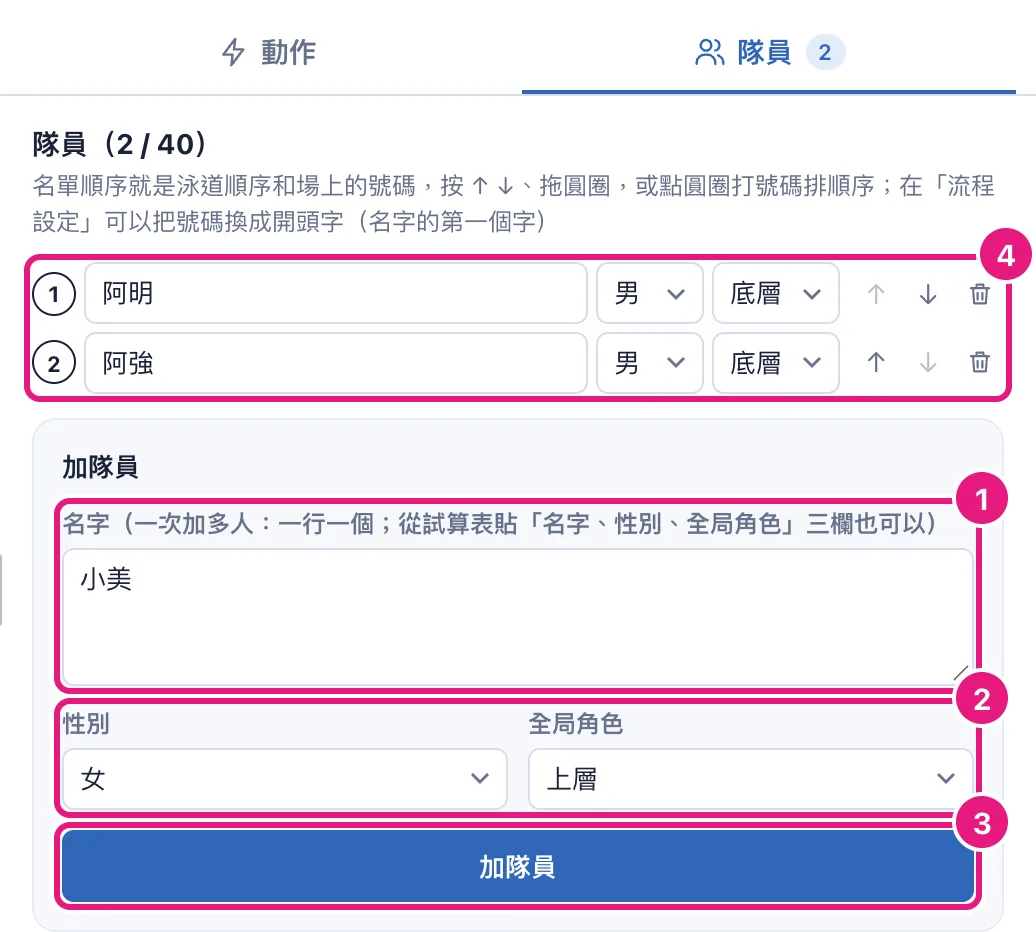
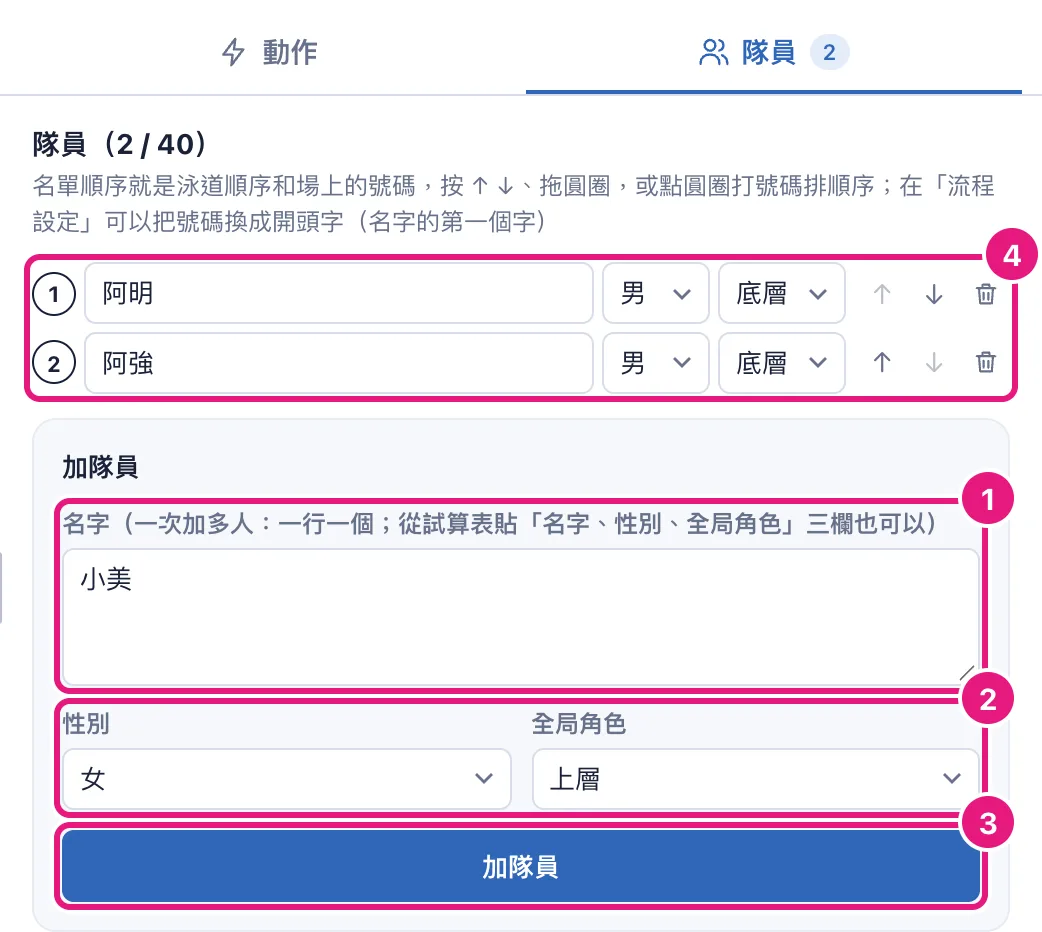
檢視模式看得出來：上方列「編輯｜檢視」兩格切換，檢視時上方列變紫、場地框黃、角落寫「檢視模式・只能看」（#174）
- 原本的「編輯」開關看不出是開關，也看不出現在是不是檢視模式
- 換成兩格並排（✏ 編輯｜👁 檢視），現在的那格是白的
- 檢視時：上方列換成紫色，場地外框一圈黃色，右上角標籤「檢視模式・只能看」
- 復原、重做、流程設定檢視時不拿掉、只變灰：換模式時旁邊的按鈕和播放區不會跑
- 兩格比舊開關寬：上方列收字、播放區換行的寬度各往上調 100px（1700→1800、1570→1670）
- 版面檢查多一條：1920、1400 寬按「檢視」再按回「編輯」，每顆按鈕位置不變
- 改測試、使用說明 2.2、4.12、提示字，重拍使用說明截圖

試過的四種樣子留在 prototype/view-mode 分支（dbf7fe6）：A 按鈕寫要去哪＋橫條、B 像 Google 文件的模式選單＋上方列換色、C 兩格切換＋角落標籤、D＝C＋B 的換色、按鈕不跑。選了 D。

diff --git a/src/routes/+page.svelte b/src/routes/+page.svelte
@@ -515,7 +515,8 @@
 		{#if view === 'edit' && !narrow}
 			<button type="button" class="skip" onclick={() => timelineHost?.focus()}>跳到時間軸</button>
 		{/if}
-		<header class="topbar">
+		<!-- 檢視模式時上方列換成紫色：整個畫面一看就知道現在只能看 -->
+		<header class="topbar" class:viewing={session.viewing && view === 'edit' && !narrow}>
 			<div class="title">
 				<b title={flow.name}>{flow.name}</b>
 				<!-- 「未存」的位置一直留著：出現時不把「編排｜練習」推走 -->
@@ -537,37 +538,40 @@
 
 			<div class="actions">
 				<!-- 練習時沒有復原、重做：復原只退編排的修改，在練習畫面看不到退了什麼，還可能弄掉紀錄 -->
-				<!-- 窄螢幕一律是檢視模式，沒有「編輯」開關 -->
+				<!-- 窄螢幕一律是檢視模式，沒有「編輯｜檢視」切換 -->
 				{#if view === 'edit' && !narrow}
-					<!-- 關掉是檢視模式：只能看、只能播放。改流程的指令由 session 擋下，不只是藏按鈕 -->
-					<label class="toggle" title="關掉是檢視模式：只能看、只能播放，不會不小心改到">
-						<input
-							type="checkbox"
-							role="switch"
-							checked={!session.viewing}
-							onchange={(e) => (session.viewing = !e.currentTarget.checked)}
-						/>編輯
-					</label>
-					{#if !session.viewing}
-						<button type="button" class="ghost" title="復原（⌘Z／Ctrl+Z）" disabled={!session.canUndo} onclick={undo}
-							><Icon name="undo" /><span class="narrow-hide">復原</span></button
+					<!-- 檢視模式：只能看、只能播放。改流程的指令由 session 擋下，不只是藏按鈕 -->
+					<!-- 兩格都看得到，現在的那格是白的：一眼看得出現在是哪個模式、按哪裡換 -->
+					<div class="mode" role="group" aria-label="編輯｜檢視">
+						<button type="button" aria-pressed={!session.viewing} onclick={() => (session.viewing = false)}
+							><Icon name="pencil" />編輯</button
 						>
 						<button
 							type="button"
-							class="ghost"
-							title="重做（⌘⇧Z／Ctrl+Shift+Z、Ctrl+Y）"
-							disabled={!session.canRedo}
-							onclick={redo}><Icon name="redo" /><span class="narrow-hide">重做</span></button
+							aria-pressed={session.viewing}
+							title="檢視模式：只能看、只能播放，不會不小心改到"
+							onclick={() => (session.viewing = true)}><Icon name="eye" />檢視</button
 						>
-					{/if}
+					</div>
+					<!-- 檢視時復原、重做不拿掉，只變灰：換模式時旁邊的按鈕不會跑 -->
+					<button type="button" class="ghost" title="復原（⌘Z／Ctrl+Z）" disabled={session.viewing || !session.canUndo} onclick={undo}
+						><Icon name="undo" /><span class="narrow-hide">復原</span></button
+					>
+					<button
+						type="button"
+						class="ghost"
+						title="重做（⌘⇧Z／Ctrl+Shift+Z、Ctrl+Y）"
+						disabled={session.viewing || !session.canRedo}
+						onclick={redo}><Icon name="redo" /><span class="narrow-hide">重做</span></button
+					>
 					<span class="sep" aria-hidden="true"></span>
 				{/if}
 				<!-- 八拍表的字一直留著：使用說明都叫它「八拍表」，只有印表機圖示認不出來 -->
 				<button type="button" class="ghost" title="八拍表" onclick={() => (printOpen = true)}
 					><Icon name="print" />八拍表</button
 				>
-				{#if view === 'edit' && !session.viewing}
-					<button type="button" class="ghost" title="流程設定" onclick={() => (settingsOpen = true)}
+				{#if view === 'edit' && !narrow}
+					<button type="button" class="ghost" title="流程設定" disabled={session.viewing} onclick={() => (settingsOpen = true)}
 						><Icon name="settings" /><span class="narrow-hide">流程</span>設定</button
 					>
 				{/if}
@@ -617,7 +621,11 @@
 				</main>
 			{/if}
 		{:else}
-			<main class="field-host" hidden={view === 'practice'} {@attach watchFieldHostH}>
+			<main class="field-host" class:viewing={session.viewing} hidden={view === 'practice'} {@attach watchFieldHostH}>
+				{#if session.viewing}
+					<!-- 場地框一圈黃色，右上角寫清楚：像 Notion 鎖住頁面時名字旁邊的「Locked」 -->
+					<div class="view-badge"><Icon name="eye" />檢視模式・只能看</div>
+				{/if}
 				<Field
 					field={flow.field}
 					members={flow.members}
@@ -1090,6 +1098,9 @@
 		background: var(--ink);
 		color: #e8ecf5;
 	}
+	.topbar.viewing {
+		background: #3b2a6b;
+	}
 	.title {
 		display: flex;
 		align-items: baseline;
@@ -1152,6 +1163,39 @@
 		background: #fff;
 		color: var(--ink);
 		font-weight: 700;
+	}
+	/* 編輯｜檢視：字的粗細兩格一樣，換模式時寬度不變、旁邊的按鈕不跑 */
+	.mode {
+		display: inline-flex;
+		padding: 2px;
+		border-radius: 999px;
+		background: #0c1426;
+		border: 1px solid #36425f;
+	}
+	.mode button {
+		display: inline-flex;
+		align-items: center;
+		gap: 5px;
+		padding: 4px 10px;
+		border: none;
+		border-radius: 999px;
+		background: none;
+		color: #8b99b8;
+		font-size: 13px;
+		font-weight: 600;
+	}
+	.mode button:hover {
+		color: #fff;
+	}
+	.mode button[aria-pressed='true'] {
+		background: #fff;
+		color: var(--ink);
+	}
+	/* 手指（橫拿的 iPad）：跟節拍器一樣至少 32px 高 */
+	@media (pointer: coarse) {
+		.mode button {
+			min-height: 32px;
+		}
 	}
 
 	.transport {
@@ -1459,6 +1503,26 @@
 		min-height: 0;
 		padding: 12px;
 	}
+	.field-host.viewing {
+		box-shadow: inset 0 0 0 4px #ffc53d;
+	}
+	.view-badge {
+		position: absolute;
+		top: 18px;
+		right: 22px;
+		z-index: 5;
+		display: inline-flex;
+		align-items: center;
+		gap: 6px;
+		padding: 6px 12px;
+		border-radius: 999px;
+		background: #ffc53d;
+		color: #2a1d00;
+		font-weight: 700;
+		font-size: 13px;
+		box-shadow: 0 2px 8px rgba(22, 33, 58, 0.15);
+		pointer-events: none;
+	}
 	.field-empty {
 		position: absolute;
 		left: 50%;
@@ -1751,8 +1815,8 @@
 	}
 
 	/* 窄一點的視窗：延遲校正只留「延遲」、輸入框和「毫秒」（滑過去看得到說明），不整個藏起來。
-	   上方列多了「編排｜練習」、播放區多了「重複」和速度，所以從 1700px 就開始收（再寬一點才收，流程名字會被擠到剩兩三個字）。 */
-	@media (max-width: 1700px) {
+	   上方列多了「編排｜練習」、播放區多了「重複」和速度，右邊的「編輯｜檢視」兩格比一個開關寬，所以從 1800px 就開始收（再寬一點才收，流程名字會被擠到剩兩三個字）。 */
+	@media (max-width: 1800px) {
 		.latency-text {
 			position: absolute;
 			width: 1px;
@@ -1780,8 +1844,8 @@
 	}
 
 	/* 再窄就一行放不下：播放區換到第二行，名字和按鈕留在第一行（一行硬塞的話，流程名字只剩四五個字）。
-	   右邊多了「編輯」開關、延遲校正多了「毫秒」、播放區多了「重複」和速度，所以從 1570px 就換。 */
-	@media (max-width: 1570px) {
+	   右邊多了「編輯｜檢視」兩格、延遲校正多了「毫秒」、播放區多了「重複」和速度，所以從 1670px 就換。 */
+	@media (max-width: 1670px) {
 		.topbar {
 			grid-template-columns: minmax(0, 1fr) auto;
 		}

diff --git a/src/routes/guide/+page.svelte b/src/routes/guide/+page.svelte
@@ -290,9 +290,9 @@
 							<tr><td><b>首頁</b></td><td>還沒打開流程時看到的畫面：左邊是介紹，右邊是「新建流程」「開啟流程檔」和「最近的流程」。</td></tr>
 							<tr><td><b>編輯畫面</b></td><td>打開一支流程之後的畫面，分成下面四個區域。</td></tr>
 							<tr class="group"><td colspan="2">上方列</td></tr>
-							<tr><td><b>上方列</b></td><td>最上面深藍色的那一列：左邊是流程名字、「編排」「練習」切換和「使用說明」，中間是播放鍵、目前位置、節拍器、重複、播放速度、延遲校正，右邊是「編輯」開關、「復原」「重做」「八拍表」「流程設定」「開啟」「新建」「存檔」（練習時沒有播放鍵那一區和「編輯」「復原」「重做」「流程設定」；檢視模式沒有「復原」「重做」「流程設定」；手機上沒有「編輯」開關，播放鍵那一區在場地下面，「新建」換成「回首頁」）。流程名字太長時只顯示前面，後面寫「…」，滑鼠移過去看得到全名。視窗不夠寬時，「復原」「重做」只剩圖示、「流程設定」只剩齒輪和「設定」兩個字，滑鼠移過去看得到名字（「八拍表」一直有字）；再窄一點，播放鍵那一區換到第二行；1280 像素寬以下，「使用說明」也只剩「?」圖示。手機上上方列排成兩行：上面是流程名字、「編排」「練習」和「使用說明」，下面是其他按鈕。</td></tr>
+							<tr><td><b>上方列</b></td><td>最上面深藍色的那一列：左邊是流程名字、「編排」「練習」切換和「使用說明」，中間是播放鍵、目前位置、節拍器、重複、播放速度、延遲校正，右邊是「編輯｜檢視」切換、「復原」「重做」「八拍表」「流程設定」「開啟」「新建」「存檔」（練習時沒有播放鍵那一區和「編輯｜檢視」「復原」「重做」「流程設定」；檢視模式時「復原」「重做」「流程設定」變灰、按不下去，位置不變；手機上沒有「編輯｜檢視」切換，播放鍵那一區在場地下面，「新建」換成「回首頁」）。流程名字太長時只顯示前面，後面寫「…」，滑鼠移過去看得到全名。視窗不夠寬時，「復原」「重做」只剩圖示、「流程設定」只剩齒輪和「設定」兩個字，滑鼠移過去看得到名字（「八拍表」一直有字）；再窄一點，播放鍵那一區換到第二行；1280 像素寬以下，「使用說明」也只剩「?」圖示。手機上上方列排成兩行：上面是流程名字、「編排」「練習」和「使用說明」，下面是其他按鈕。</td></tr>
 							<tr><td><b>編排、練習</b></td><td>上方列流程名字旁的切換。平常在「編排」；按「練習」，場地、右邊欄、時間軸換成<b>練習畫面</b>，有「記錄」「總表」兩頁（見 <a href="#practice">4.10</a>）。</td></tr>
-							<tr><td><b>編輯、檢視模式</b></td><td>上方列右邊的「編輯」開關，預設是開著（編輯）。關掉就是<b>檢視模式</b>：只能看、只能播放，拖人、按 Delete、⌘Z、改名字、改表單都會被擋下，提示寫「檢視模式只能看、只能播放」，流程和草稿都不會變。選人、選動作、播放、看八拍表、切站位照常。給隊員看之前可以先切過去確認；要改再把「編輯」打開。手機、直拿的 iPad 上一律是檢視模式，沒有「編輯」開關（見 <a href="#viewers">4.12</a>）。</td></tr>
+							<tr><td><b>編輯、檢視模式</b></td><td>上方列右邊的「編輯｜檢視」兩格，現在的那格是白的，預設是「編輯」。按「檢視」就是<b>檢視模式</b>：上方列變成紫色，場地外框一圈黃色，右上角寫「檢視模式・只能看」。只能看、只能播放，拖人、按 Delete、⌘Z、改名字、改表單都會被擋下，提示寫「檢視模式只能看、只能播放」，流程和草稿都不會變。選人、選動作、播放、看八拍表、切站位照常。給隊員看之前可以先切過去確認；要改再按回「編輯」。手機、直拿的 iPad 上一律是檢視模式，沒有「編輯｜檢視」切換（見 <a href="#viewers">4.12</a>）。</td></tr>
 							<tr><td><b>未存</b></td><td>流程名字旁邊的黃色小字：有還沒存的修改（欄位裡打到一半、還沒離開的字也算，一打字就出現）。存檔後消失。它的位置一直留著，出現時旁邊的「編排」「練習」不會移動。</td></tr>
 							<tr><td><b>目前位置</b></td><td>上方列中間的深色小框，寫播放頭在哪，例如「音樂 1 3-5&amp;」（在流程最後面時寫「結尾」）；下面一行是現在第幾分幾秒，斜線後面是整支流程多長。</td></tr>
 							<tr class="group"><td colspan="2">場地</td></tr>
@@ -1181,7 +1181,7 @@
 
 				<h4 id="用電腦看">用電腦看</h4>
 				<ol class="steps">
-					<li>電腦上打開是一般的編輯畫面。先把上方列右邊的「編輯」關掉，變成<b>檢視模式</b>：只能看、只能播放，不小心拖到人、按到 Delete 也不會改到流程。</li>
+					<li>電腦上打開是一般的編輯畫面。先按上方列右邊「編輯｜檢視」的「檢視」，變成<b>檢視模式</b>：上方列變紫色、場地外框變黃色。只能看、只能播放，不小心拖到人、按到 Delete 也不會改到流程。要改再按回「編輯」。</li>
 					<li>在泳道上點自己的名字（或在場上點自己）：場上只畫你的影子和走位線。按空白鍵播放、暫停。</li>
 					<li>按「八拍表」，在「印誰」選自己，可以只看或印出你的那一張（見 <a href="#八拍表">4.9 的「八拍表」</a>）。</li>
 				</ol>

diff --git a/src/routes/view-mode.svelte.test.ts b/src/routes/view-mode.svelte.test.ts
@@ -1,4 +1,4 @@
-// 檢視模式（電腦，#174）：上方列的「編輯」開關關掉就只能看、只能播放；改流程的指令都擋下（不只藏按鈕），開回來又能改。
+// 檢視模式（電腦，#174）：上方列「編輯｜檢視」按「檢視」就只能看、只能播放；改流程的指令都擋下（不只藏按鈕），按回「編輯」又能改。
 import { fireEvent, render, screen } from '@testing-library/svelte';
 import { describe, expect, it } from 'vitest';
 import { editorPage } from '#lib/test-fakes.js';
@@ -14,7 +14,9 @@ function setup() {
 	return session;
 }
 
-const editSwitch = () => screen.getByRole('switch', { name: '編輯' }) as HTMLInputElement;
+const editBtn = () => screen.getByRole('button', { name: '編輯' });
+const viewBtn = () => screen.getByRole('button', { name: '檢視' });
+const undoBtn = () => screen.getByRole('button', { name: '復原' }) as HTMLButtonElement;
 const dot = (id: string) => document.querySelector(`[data-member-id="${id}"]`)!;
 const playing = () => !!screen.queryByRole('button', { name: '暫停' });
 const nameBox = () => screen.getByLabelText('第 1 位隊員的名字') as HTMLInputElement;
@@ -26,14 +28,18 @@ async function drag(id: string) {
 }
 
 describe('檢視模式', () => {
-	it('預設是編輯；關掉「編輯」後拖人、Delete、⌘Z、改名都不改流程', async () => {
+	it('預設是編輯；按「檢視」後拖人、Delete、⌘Z、改名都不改流程', async () => {
 		const session = setup();
-		expect(editSwitch().checked).toBe(true);
+		expect(editBtn().getAttribute('aria-pressed')).toBe('true');
 		// 先改一次，⌘Z 才有東西可以退
 		await drag('m1');
 		expect(session.canUndo).toBe(true);
-		await fireEvent.click(editSwitch());
-		expect(editSwitch().checked).toBe(false);
+		await fireEvent.click(viewBtn());
+		expect(viewBtn().getAttribute('aria-pressed')).toBe('true');
+		expect(editBtn().getAttribute('aria-pressed')).toBe('false');
+		// 上方列換色、場地角落有標籤，一眼看得出是檢視模式
+		expect(document.querySelector('.topbar')!.classList.contains('viewing')).toBe(true);
+		expect(document.querySelector('.field-host')!.textContent).toContain('檢視模式・只能看');
 		const before = session.flow;
 		const where = dot('m2').getAttribute('transform');
 
@@ -49,8 +55,10 @@ describe('檢視模式', () => {
 
 		await fireEvent.keyDown(window, { key: 'z', metaKey: true });
 		expect(session.flow).toBe(before);
-		// 復原、重做鈕藏起來
-		expect(screen.queryByRole('button', { name: '復原' })).toBeNull();
+		// 復原、重做、流程設定留在原地、變灰：換模式時按鈕不會跑
+		expect(undoBtn().disabled).toBe(true);
+		expect((screen.getByRole('button', { name: '重做' }) as HTMLButtonElement).disabled).toBe(true);
+		expect((screen.getByRole('button', { name: /設定/ }) as HTMLButtonElement).disabled).toBe(true);
 
 		await fireEvent.click(screen.getByRole('tab', { name: /^隊員/ }));
 		await fireEvent.change(nameBox(), { target: { value: '美美' } });
@@ -60,19 +68,21 @@ describe('檢視模式', () => {
 
 	it('檢視模式下空白鍵照樣播放', async () => {
 		setup();
-		await fireEvent.click(editSwitch());
+		await fireEvent.click(viewBtn());
 		await fireEvent.keyDown(window, { key: ' ' });
 		expect(playing()).toBe(true);
 	});
 
-	it('開回「編輯」就能改', async () => {
+	it('按回「編輯」就能改', async () => {
 		const session = setup();
-		await fireEvent.click(editSwitch());
-		await fireEvent.click(editSwitch());
-		expect(editSwitch().checked).toBe(true);
+		await fireEvent.click(viewBtn());
+		await fireEvent.click(editBtn());
+		expect(editBtn().getAttribute('aria-pressed')).toBe('true');
+		expect(document.querySelector('.topbar')!.classList.contains('viewing')).toBe(false);
+		expect(document.querySelector('.field-host')!.textContent).not.toContain('檢視模式・只能看');
 		await fireEvent.click(screen.getByRole('tab', { name: /^隊員/ }));
 		await fireEvent.change(nameBox(), { target: { value: '美美' } });
 		expect(session.flow!.members[0].name).toBe('美美');
-		expect(screen.getByRole('button', { name: '復原' })).toBeTruthy();
+		expect(undoBtn().disabled).toBe(false);
 	});
 });

diff --git a/src/routes/phone-view.svelte.test.ts b/src/routes/phone-view.svelte.test.ts
@@ -51,10 +51,10 @@ describe('手機的檢視模式', () => {
 		expect(row().textContent).not.toContain('Lib');
 	});
 
-	it('一律是檢視模式：沒有「編輯」開關，也沒有復原、流程設定', async () => {
+	it('一律是檢視模式：沒有「編輯｜檢視」切換，也沒有復原、流程設定', async () => {
 		const { session } = await openOnPhone();
 		expect(session.viewing).toBe(true);
-		expect(screen.queryByRole('switch', { name: '編輯' })).toBeNull();
+		expect(screen.queryByRole('group', { name: '編輯｜檢視' })).toBeNull();
 		expect(screen.queryByRole('button', { name: '復原' })).toBeNull();
 		expect(screen.queryByRole('button', { name: /設定/ })).toBeNull();
 	});

diff --git a/src/lib/components/Icon.svelte b/src/lib/components/Icon.svelte
@@ -24,6 +24,8 @@
 		bolt: 'M13 2L4 14h7l-1 8 9-12h-7z',
 		undo: 'M9 14L4 9l5-5M4 9h10.5a5.5 5.5 0 0 1 0 11H11',
 		redo: 'M15 14l5-5-5-5M20 9H9.5a5.5 5.5 0 0 0 0 11H13',
+		eye: 'M2 12s3.6-7 10-7 10 7 10 7-3.6 7-10 7S2 12 2 12zM12 15a3 3 0 1 0 0-6 3 3 0 0 0 0 6z',
+		pencil: 'M4 20h4L19 9l-4-4L4 16zM13.5 6.5l4 4',
 		help: 'M12 21a9 9 0 1 0 0-18 9 9 0 0 0 0 18zM9.6 9.4a2.5 2.5 0 1 1 3.4 2.4c-.6.3-1 .8-1 1.4v.6M12 17v.01'
 	} as const;
 	export type IconName = keyof typeof PATHS;

diff --git a/src/lib/editor-session.svelte.ts b/src/lib/editor-session.svelte.ts
@@ -34,7 +34,7 @@ interface Step {
 }
 
 /** 檢視模式下改流程被擋的原因。 */
-export const VIEW_ONLY = '檢視模式只能看、只能播放；要改先打開上方列的「編輯」';
+export const VIEW_ONLY = '檢視模式只能看、只能播放；要改先按上方列的「編輯」';
 
 /** 拖過頭（走位條、縮圖、場上的人）停在最遠的合法位置時的提示。 */
 export const AT_EDGE = '已靠到邊界';
